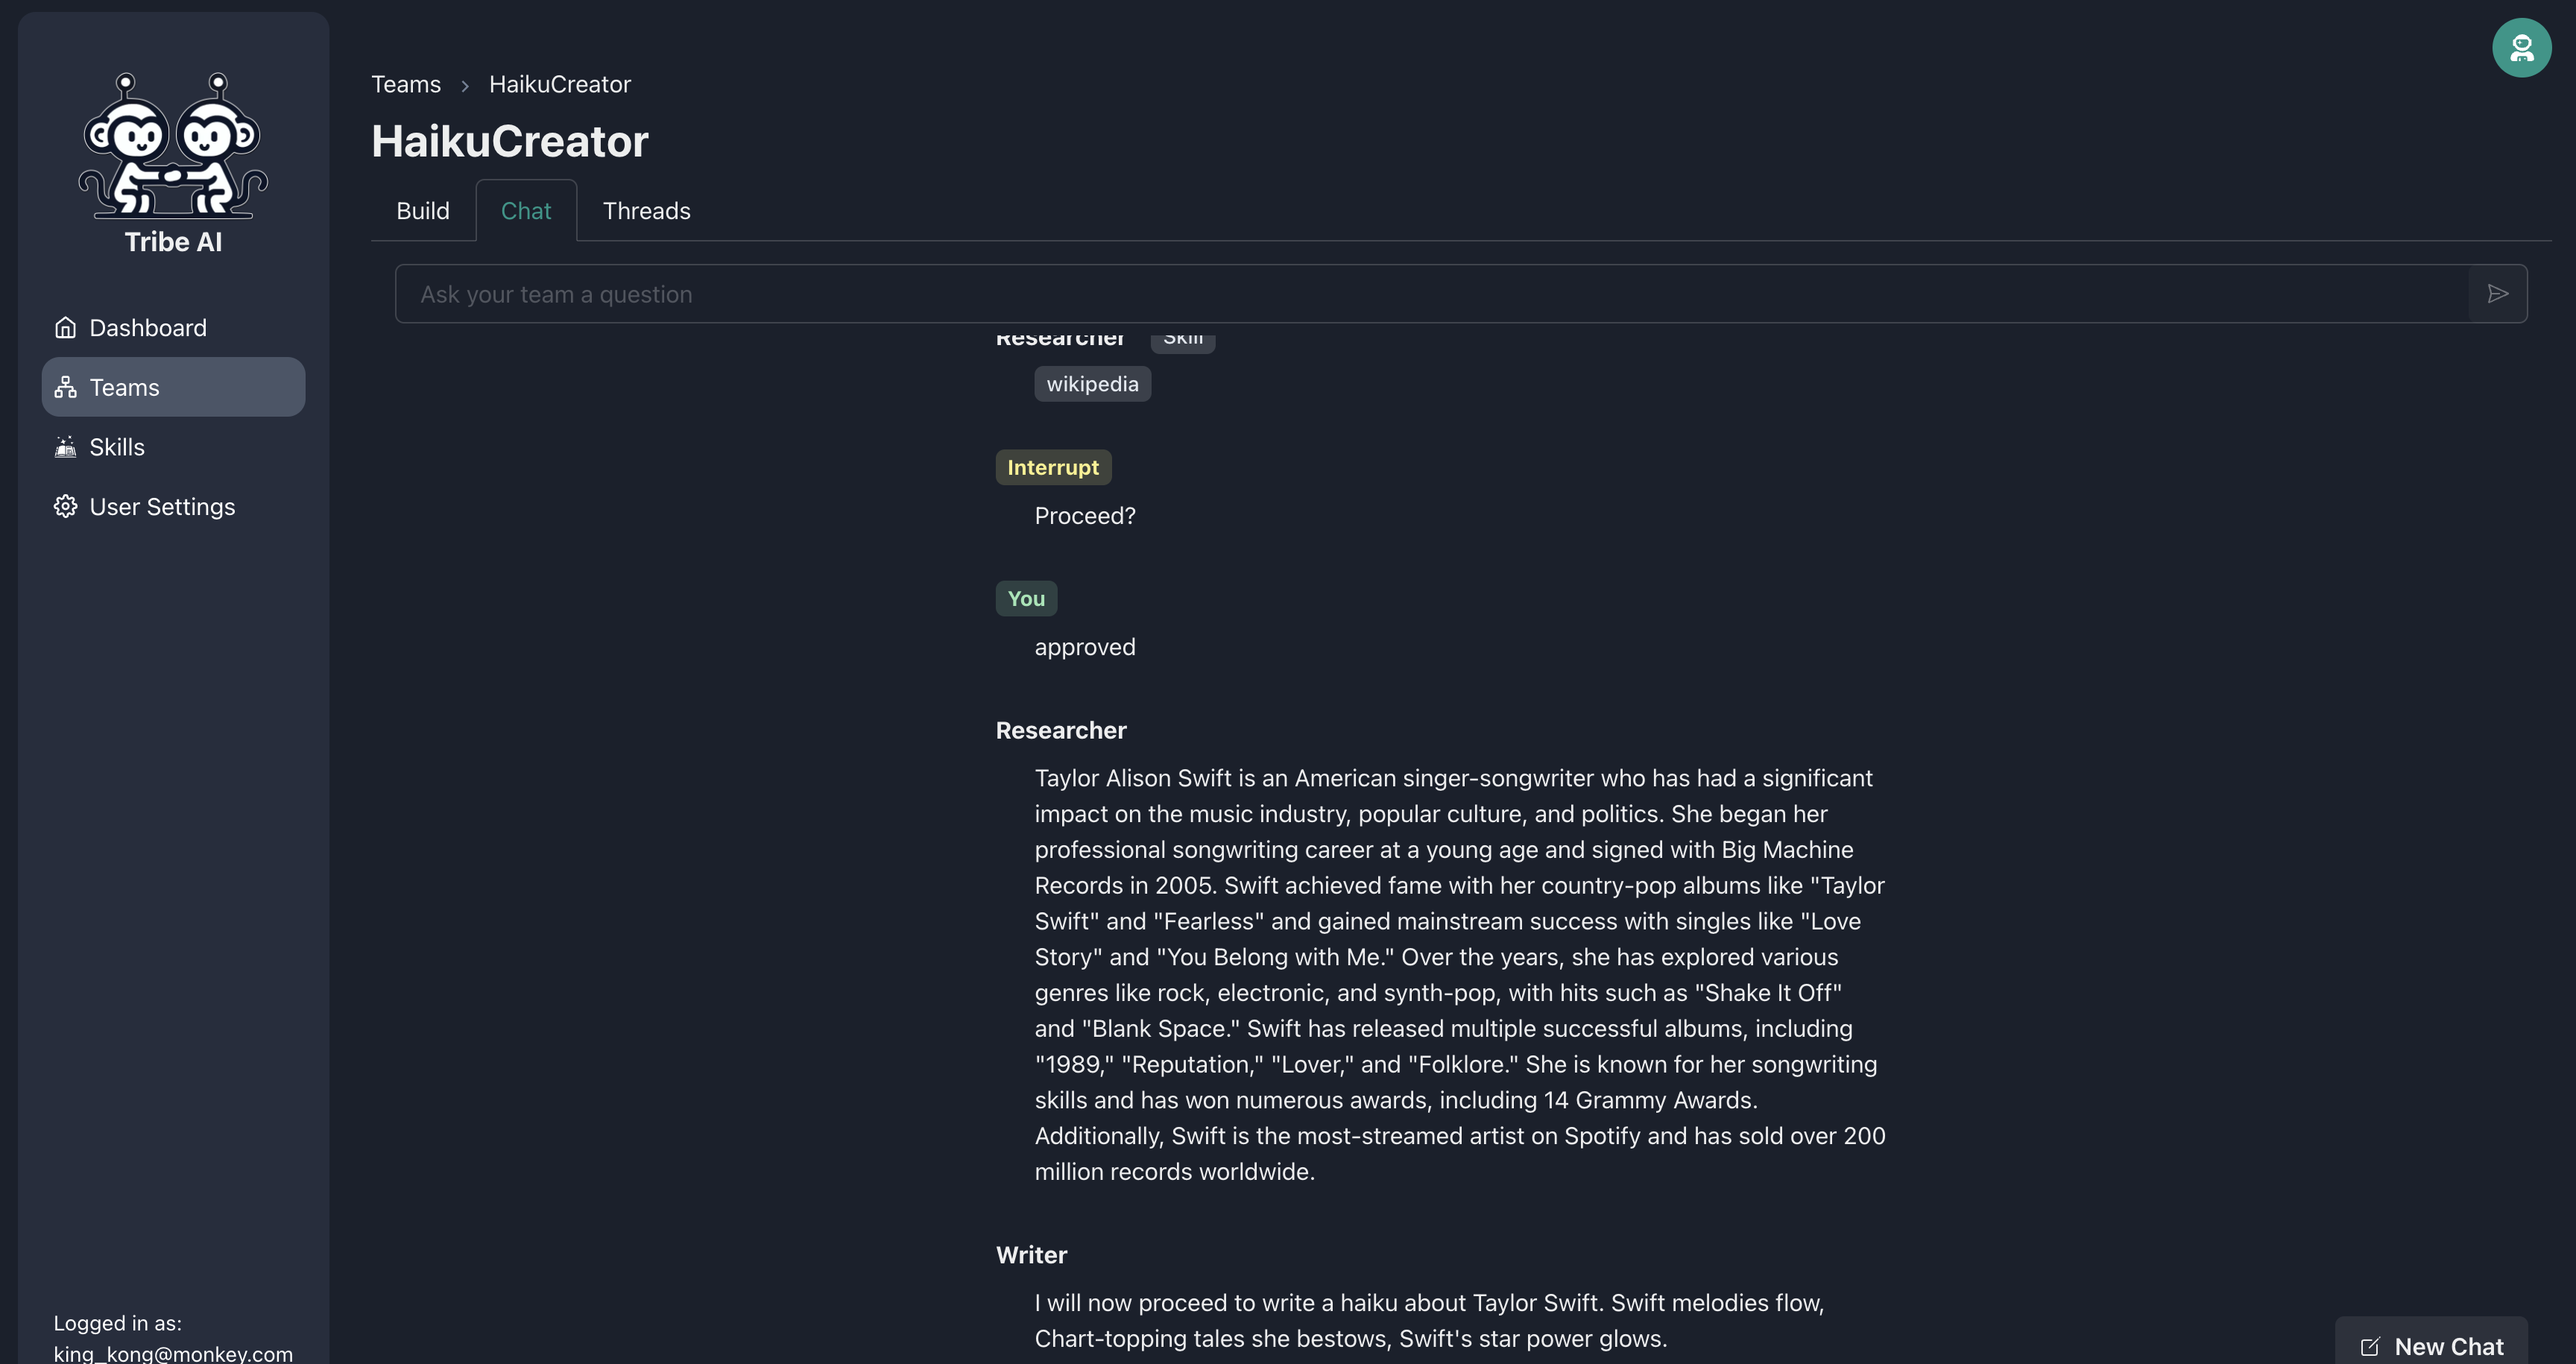
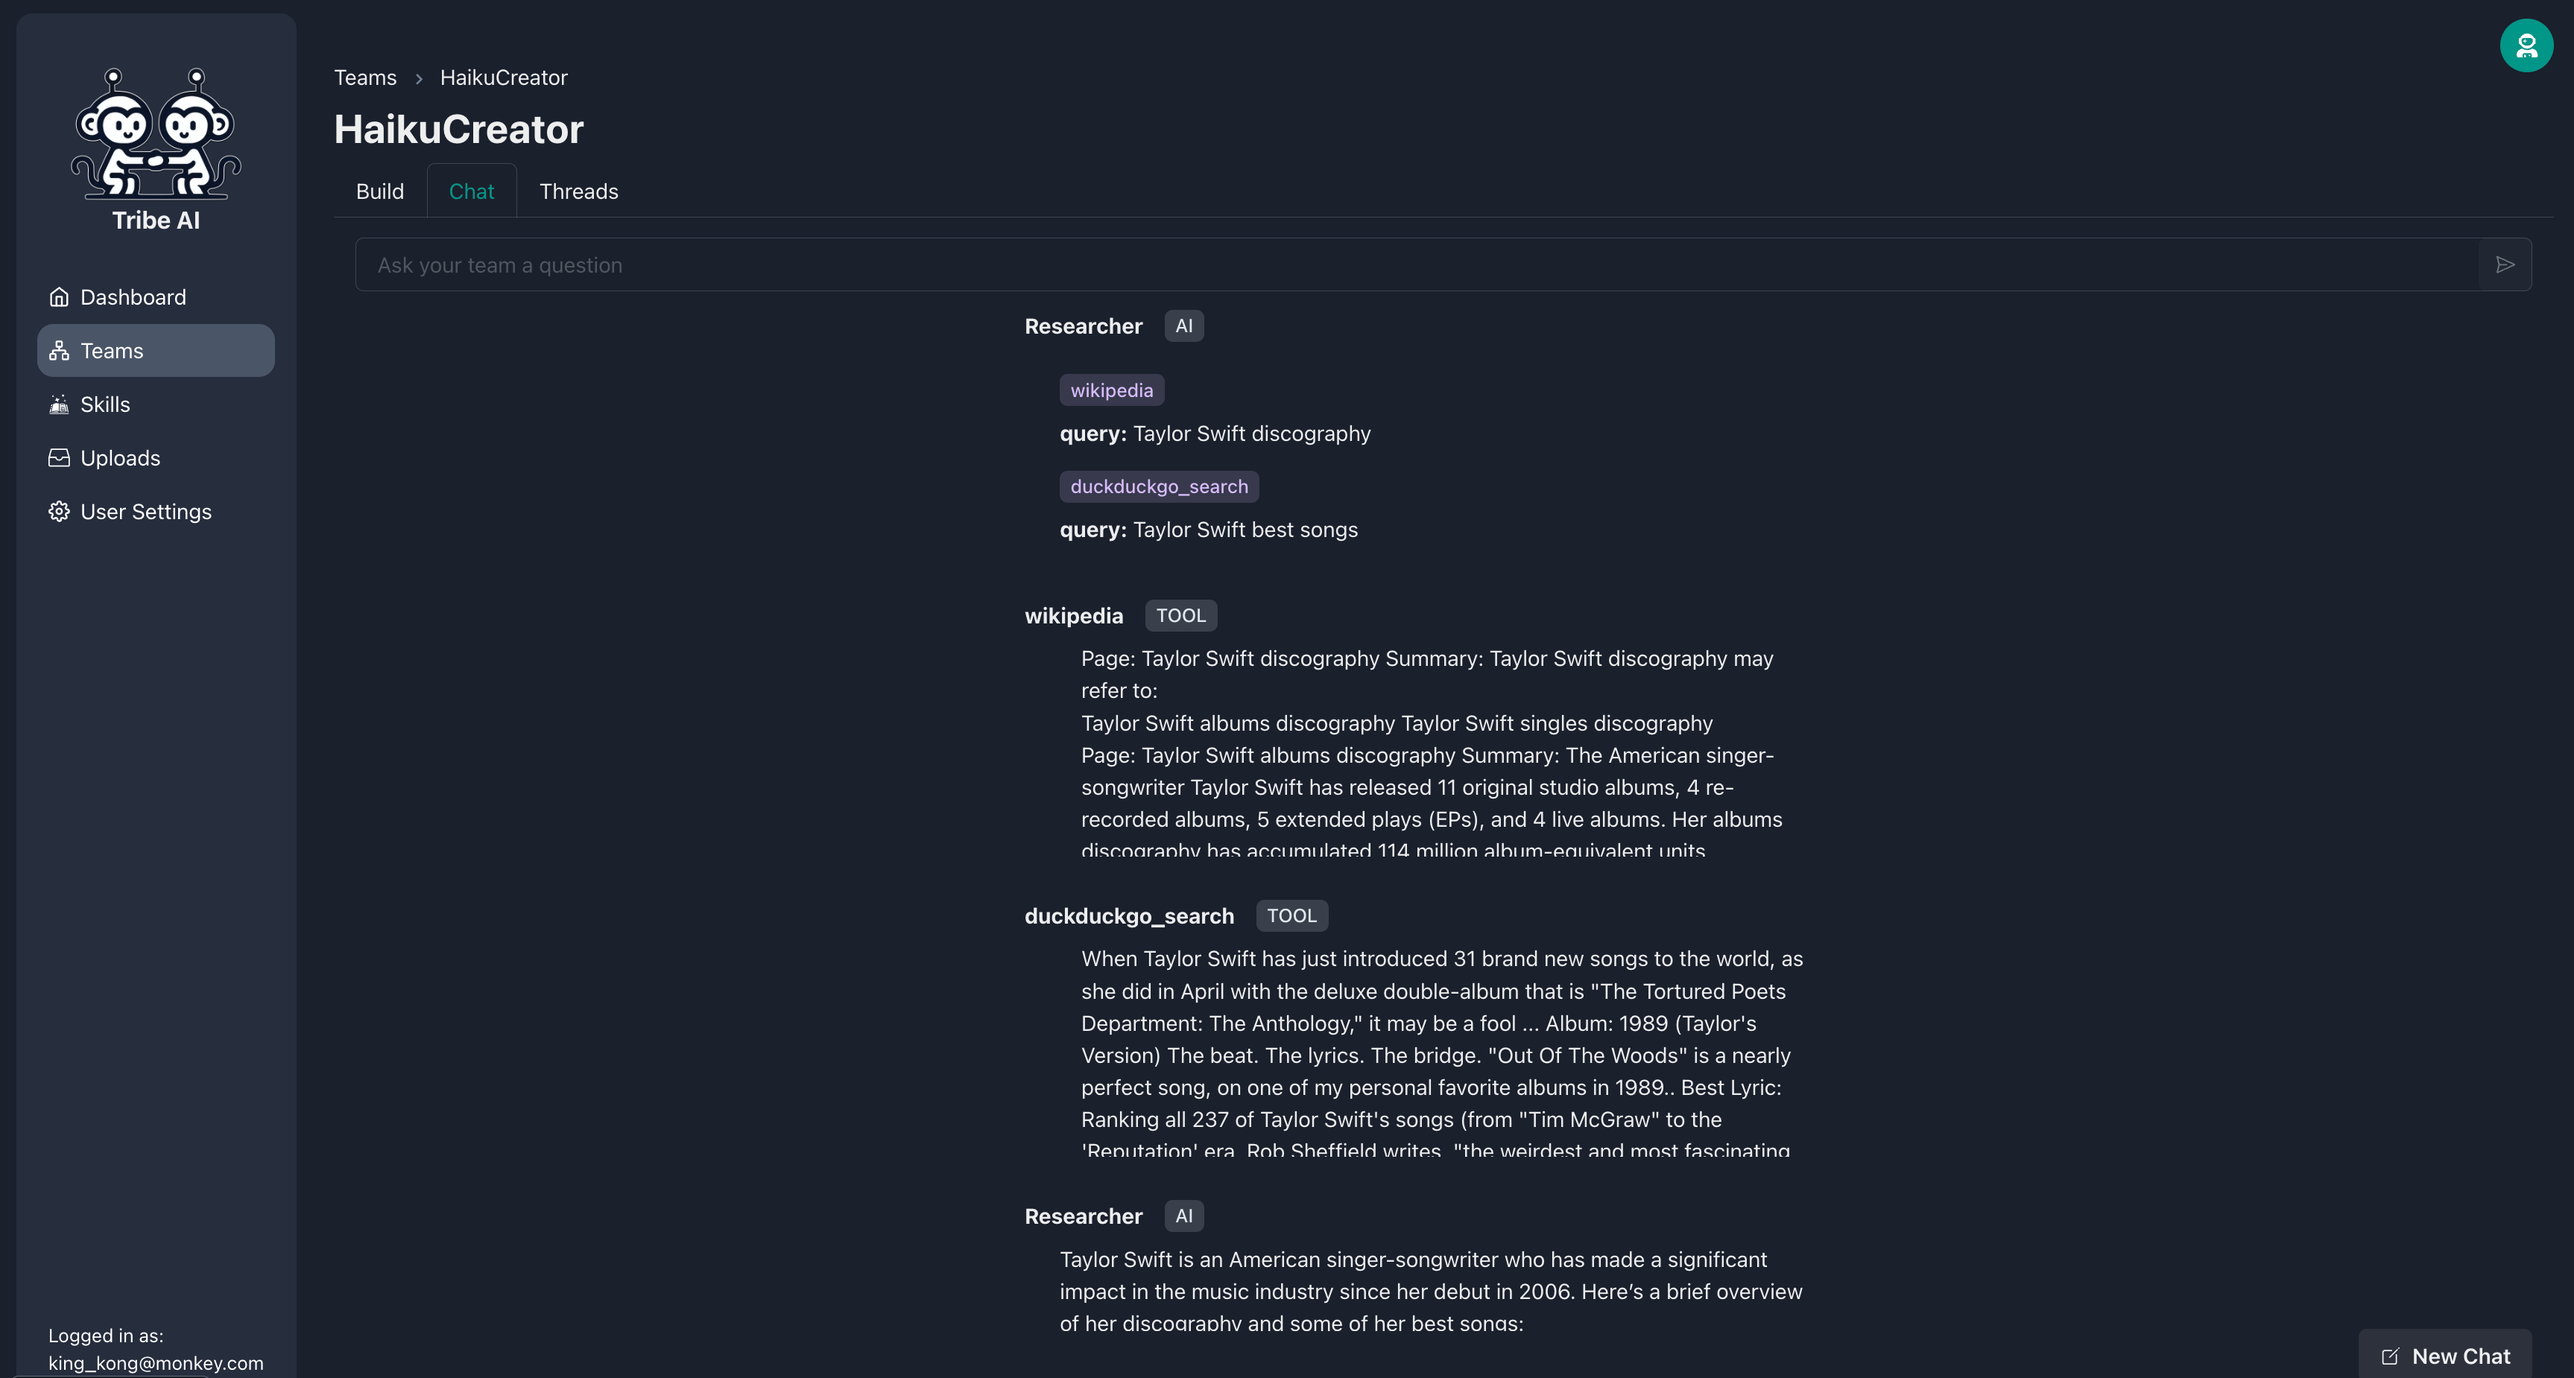
Allow adding optional rejection message when rejecting agent actions. (#90)
* Refactored the stream route to support an optional `rejection_message` field within the `Interrupt` model. This allows the agent to retry tool calling with revised instructions based on user feedback.

* Update frontend client types

* Update interrupt button component to allow users to include rejection message. Update onResumeHandler to pass rejection message in api request

* Update readme tutorial and supporting images for human-in-the-loop

* Remove unnecessary image

diff --git a/frontend/src/components/Teams/ChatTeam.tsx b/frontend/src/components/Teams/ChatTeam.tsx
@@ -6,9 +6,9 @@ import {
   AccordionPanel,
   Box,
   Button,
-  ButtonGroup,
   Container,
   Fade,
+  Flex,
   Icon,
   IconButton,
   Input,
@@ -16,6 +16,7 @@ import {
   InputRightElement,
   Tag,
   Text,
+  Tooltip,
   VStack,
   useDisclosure,
 } from "@chakra-ui/react"
@@ -72,18 +73,22 @@ const getUrl = (config: OpenAPIConfig, options: ApiRequestOptions): string => {
 
 interface MessageBoxProps {
   message: ChatResponse
-  onResume: (decision: InterruptDecision) => void
+  onResume: (
+    decision: InterruptDecision,
+    rejectionMessage: string | null,
+  ) => void
 }
 
 const MessageBox = ({ message, onResume }: MessageBoxProps) => {
   const { type, name, next, content, tool_calls, tool_output, documents } =
     message
   const [decision, setDecision] = useState<InterruptDecision | null>(null)
+  const [rejectionMessage, setRejectionMessage] = useState<string | null>(null)
   const { isOpen: showClipboardIcon, onOpen, onClose } = useDisclosure()
 
   const onDecisionHandler = (decision: InterruptDecision) => {
     setDecision(decision)
-    onResume(decision)
+    onResume(decision, decision === "rejected" ? rejectionMessage : null)
   }
 
   return (
@@ -135,24 +140,43 @@ const MessageBox = ({ message, onResume }: MessageBoxProps) => {
           </Accordion>
         )}
         {type === "interrupt" && !decision && (
-          <ButtonGroup mt={4} variant={"outline"}>
-            <Button
-              leftIcon={<FaCheck />}
-              size="sm"
-              colorScheme="green"
-              onClick={() => onDecisionHandler("approved")}
-            >
-              Approve
-            </Button>
-            <Button
-              leftIcon={<FaTimes />}
-              size="sm"
-              colorScheme="red"
-              onClick={() => onDecisionHandler("rejected")}
-            >
-              Reject
-            </Button>
-          </ButtonGroup>
+          <Flex alignItems={"center"} gap="1rem">
+            <Tooltip>
+              <Button
+                autoFocus
+                variant={"outline"}
+                aria-label="approve"
+                leftIcon={<FaCheck />}
+                colorScheme="green"
+                onClick={() => onDecisionHandler("approved")}
+              >
+                Approve
+              </Button>
+            </Tooltip>
+            or
+            <InputGroup size="md" width={"20rem"}>
+              <Input
+                pr="3rem"
+                placeholder="Optional rejection instructions..."
+                onChange={(e) => setRejectionMessage(e.target.value)}
+              />
+              <InputRightElement width="3rem">
+                <Tooltip label="Reject">
+                  <IconButton
+                    variant={"outline"}
+                    h="1.75rem"
+                    aria-label="reject"
+                    icon={<FaTimes />}
+                    size="sm"
+                    colorScheme="red"
+                    onClick={() => onDecisionHandler("rejected")}
+                  >
+                    Reject
+                  </IconButton>
+                </Tooltip>
+              </InputRightElement>
+            </InputGroup>
+          </Flex>
         )}
       </Container>
       {content && (
@@ -370,11 +394,21 @@ const ChatTeam = () => {
     setMessages([])
   }
 
-  const onResumeHandler = (decision: InterruptDecision) => {
-    // messages acts as a placeholder for consistency. It dont really have an effect for resuming.
+  /**
+   * Submit the interrupt decision and optional rejection message
+   */
+  const onResumeHandler = (
+    decision: InterruptDecision,
+    rejection_message?: string | null,
+  ) => {
     mutation.mutate({
-      messages: [{ type: "human", content: decision }],
-      interrupt_decision: decision,
+      messages: [
+        {
+          type: "human",
+          content: rejection_message || decision,
+        },
+      ],
+      interrupt: { decision, rejection_message },
     })
   }
 

diff --git a/frontend/src/client/index.ts b/frontend/src/client/index.ts
@@ -14,6 +14,7 @@ export type { ChatMessage } from './models/ChatMessage';
 export type { ChatMessageType } from './models/ChatMessageType';
 export type { ChatResponse } from './models/ChatResponse';
 export type { HTTPValidationError } from './models/HTTPValidationError';
+export type { Interrupt } from './models/Interrupt';
 export type { InterruptDecision } from './models/InterruptDecision';
 export type { MemberCreate } from './models/MemberCreate';
 export type { MemberOut } from './models/MemberOut';
@@ -59,6 +60,7 @@ export { $ChatMessage } from './schemas/$ChatMessage';
 export { $ChatMessageType } from './schemas/$ChatMessageType';
 export { $ChatResponse } from './schemas/$ChatResponse';
 export { $HTTPValidationError } from './schemas/$HTTPValidationError';
+export { $Interrupt } from './schemas/$Interrupt';
 export { $InterruptDecision } from './schemas/$InterruptDecision';
 export { $MemberCreate } from './schemas/$MemberCreate';
 export { $MemberOut } from './schemas/$MemberOut';

diff --git a/frontend/src/client/schemas/$Interrupt.ts b/frontend/src/client/schemas/$Interrupt.ts
@@ -2,19 +2,16 @@
 /* istanbul ignore file */
 /* tslint:disable */
 /* eslint-disable */
-export const $TeamChat = {
+export const $Interrupt = {
     properties: {
-        messages: {
-            type: 'array',
-            contains: {
-                type: 'ChatMessage',
-            },
+        decision: {
+            type: 'InterruptDecision',
             isRequired: true,
         },
-        interrupt: {
+        rejection_message: {
             type: 'any-of',
             contains: [{
-                type: 'Interrupt',
+                type: 'string',
             }, {
                 type: 'null',
             }],

diff --git a/frontend/src/client/models/TeamChat.ts b/frontend/src/client/models/TeamChat.ts
@@ -4,10 +4,10 @@
 /* eslint-disable */
 
 import type { ChatMessage } from './ChatMessage';
-import type { InterruptDecision } from './InterruptDecision';
+import type { Interrupt } from './Interrupt';
 
 export type TeamChat = {
     messages: Array<ChatMessage>;
-    interrupt_decision?: (InterruptDecision | null);
+    interrupt?: (Interrupt | null);
 };
 

diff --git a/frontend/src/client/models/Interrupt.ts b/frontend/src/client/models/Interrupt.ts
@@ -1,0 +1,12 @@
+/* generated using openapi-typescript-codegen -- do no edit */
+/* istanbul ignore file */
+/* tslint:disable */
+/* eslint-disable */
+
+import type { InterruptDecision } from './InterruptDecision';
+
+export type Interrupt = {
+    decision: InterruptDecision;
+    rejection_message?: (string | null);
+};
+

diff --git a/backend/app/core/graph/build.py b/backend/app/core/graph/build.py
@@ -36,7 +36,7 @@ from app.core.graph.members import (
     WorkerNode,
 )
 from app.core.graph.messages import ChatResponse, event_to_response
-from app.models import ChatMessage, InterruptDecision, Member, Team
+from app.models import ChatMessage, Interrupt, InterruptDecision, Member, Team
 
 
 def convert_hierarchical_team_to_dict(
@@ -449,7 +449,7 @@ async def generator(
     members: list[Member],
     messages: list[ChatMessage],
     thread_id: str,
-    interrupt_decision: InterruptDecision | None = None,
+    interrupt: Interrupt | None = None,
 ) -> AsyncGenerator[Any, Any]:
     """Create the graph and stream responses as JSON."""
     formatted_messages = [
@@ -501,9 +501,9 @@ async def generator(
                 "recursion_limit": 25,
             }
             # Handle interrupt logic by orriding state
-            if interrupt_decision == InterruptDecision.APPROVED:
+            if interrupt and interrupt.decision == InterruptDecision.APPROVED:
                 state = None
-            elif interrupt_decision == InterruptDecision.REJECTED:
+            elif interrupt and interrupt.decision == InterruptDecision.REJECTED:
                 current_values = await root.aget_state(config)
                 messages = current_values.values["messages"]
                 if messages and isinstance(messages[-1], AIMessage):
@@ -512,11 +512,19 @@ async def generator(
                         "messages": [
                             ToolMessage(
                                 tool_call_id=tool_call["id"],
-                                content="API call denied by user. Continue assisting.",
+                                content="Rejected by user. Continue assisting.",
                             )
                             for tool_call in tool_calls
                         ]
                     }
+                    if interrupt.rejection_message:
+                        state["messages"].append(
+                            HumanMessage(
+                                content=interrupt.rejection_message,
+                                name="user",
+                                id=str(uuid4()),
+                            )
+                        )
             async for event in root.astream_events(state, version="v2", config=config):
                 response = event_to_response(event)
                 if response:

diff --git a/backend/app/api/routes/teams.py b/backend/app/api/routes/teams.py
@@ -203,8 +203,6 @@ async def stream(
         member.uploads = member.uploads
 
     return StreamingResponse(
-        generator(
-            team, members, team_chat.messages, thread_id, team_chat.interrupt_decision
-        ),
+        generator(team, members, team_chat.messages, thread_id, team_chat.interrupt),
         media_type="text/event-stream",
     )

diff --git a/backend/app/models.py b/backend/app/models.py
@@ -133,11 +133,12 @@ class InterruptDecision(Enum):
 
 class Interrupt(BaseModel):
     decision: InterruptDecision
+    rejection_message: str | None = None
 
 
 class TeamChat(BaseModel):
     messages: list[ChatMessage]
-    interrupt_decision: InterruptDecision | None = None
+    interrupt: Interrupt | None = None
 
 
 class Team(TeamBase, table=True):

diff --git a/README.md b/README.md
@@ -256,16 +256,18 @@ Go to the 'Chat' tab and send a question to your team to see how they respond. N
 
 #### Requiring Human Approval Before Skill Execution in Sequential Workflows
 
-You can require your team members to wait for your approval before executing their skills. Edit your Researcher and select 'Require approval'.
+You can require your team members to wait for your approval before executing their skills. Add the ‘duckduckgo-search’ skill and select ‘Require approval’ in Researcher.
 
 ![enable human approval](./img/human-approval-tutorial/enable-human-approval.png)
 
-Now, before the Researcher executes its skills, it will ask you to approve or reject.
+Now, before the Researcher executes its skills, it will ask for your approval. If the Researcher’s search isn’t what you wanted, reject the action and include an optional message to provide direction.
 
-![chat before approval](./img/human-approval-tutorial/chat-before-approval.png)
+![chat before reject](./img/human-approval-tutorial/chat-before-reject.png)
 
-If you approve, the Researcher will continue to execute its skills.
+Once the Researcher adjusts the search to meet your requirements, you can approve the action.
+![chat after reject](./img/human-approval-tutorial/chat-after-reject.png)
 
+The Researcher will then proceed to execute its skills as directed.
 ![chat after approval](./img/human-approval-tutorial/chat-after-approval.png)
 
 ## Contribution
